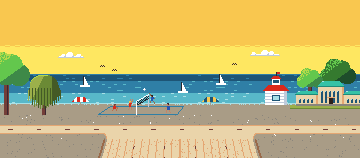
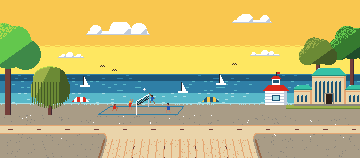
Raise The Beaches' skyline: tall maple, willow and park trees frame the lake, the R.C. Harris plant's middle hall rises over its wings, and two high clouds fill the gold sky

diff --git a/art/tools/backdrops.py b/art/tools/backdrops.py
@@ -13,13 +13,13 @@ its items spawn: only the verge's ground.
 Rows, in band rows (0 to 157): the sky is one flat colour above row 45 (CALM), under the message
 strip (band rows 6 to 57 while a message shows), but any neighbourhood's skyline may rise above
 it (Cabbagetown's old trees, chapel spire, far downtown towers and stars; High Park's oaks,
-ridge and clouds; the Distillery District's chimney stack, water tower and condo towers; and
-Yonge Street's skyline, moon and stars); the far side's ground row
-115 (BASE), the far sidewalk 119 to 122, the far curb 123 to 124, the cross street 125 to 133
-with its centre line on row 129, the near curb 134 to 135 (none where the cross street has
-none), the near sidewalk 136 to 138, and the stub from row 139 (STUB, the approach) to the
-bottom row, 157, which continues the game's road (the 320-wide strip on columns 100 to 259,
-lane dividers on 132, 164, 195 and 227, verge outside). The two sidewalks' middles run from
+ridge and clouds; the Distillery District's chimney stack, water tower and condo towers; The
+Beaches' high clouds and tall trees; and Yonge Street's skyline, moon and stars); the far side's
+ground row 115 (BASE), the far sidewalk 119 to 122, the far curb 123 to 124, the cross street
+125 to 133 with its centre line on row 129, the near curb 134 to 135 (none where the cross
+street has none), the near sidewalk 136 to 138, and the stub from row 139 (STUB, the approach)
+to the bottom row, 157, which continues the game's road (the 320-wide strip on columns 100 to
+259, lane dividers on 132, 164, 195 and 227, verge outside). The two sidewalks' middles run from
 (87, 157) to (94, 138) and from (273, 157) to (266, 138) (python3 art/tools/backdrops.py camera
 prints them for the current constants).
 
@@ -339,8 +339,8 @@ BASE = STUB - 24               # the far side's ground row: the houses stand on 
 # message strip (band rows 6 to 57 while a message shows) lie over it, so each neighbourhood's main read stays
 # below it. Any neighbourhood's skyline may rise above it, reading half covered while a message shows:
 # Cabbagetown's old trees, chapel spire, far downtown towers and stars; High Park's oaks, ridge and clouds;
-# the Distillery District's chimney stack, water tower and condo towers; and Yonge Street's skyline, moon and
-# stars.
+# the Distillery District's chimney stack, water tower and condo towers; The Beaches' high clouds and tall
+# trees; and Yonge Street's skyline, moon and stars.
 CALM = BASE - 70
 
 
@@ -1702,11 +1702,12 @@ def umbrella(cv, cx, base, a, b):
 
 def rc_harris(cv, x0, base):
     """The R.C. Harris Water Treatment Plant on its lawn at the east end of the beach, standing on row
-    base: buff brick Art Deco halls under hipped copper roofs, the middle hall raised over its wings,
-    tall arched windows, a stone plinth."""
-    cv.fill(x0 - 6, base - 1, W - x0 + 6, 4, "moss")
-    cv.fill(x0 - 6, base + 2, W - x0 + 6, 1, "olive")
-    for x, w, wall_h, roof_h in ((x0, 22, 11, 4), (x0 + 22, 26, 19, 6), (x0 + 48, 24, 11, 4)):
+    base: buff brick Art Deco halls under hipped copper roofs, the grand middle hall raised high over
+    its wings, tall arched windows under a tan string course, a stone plinth and the main doors in a
+    stone surround."""
+    cv.fill(x0 - 8, base - 1, W - x0 + 8, 4, "moss")
+    cv.fill(x0 - 8, base + 2, W - x0 + 8, 1, "olive")
+    for x, w, wall_h, roof_h in ((x0, 18, 16, 5), (x0 + 18, 34, 30, 8), (x0 + 52, 20, 16, 5)):
         top = base - wall_h
         cv.fill(x, top, w, wall_h, "cream")
         cv.fill(x + w - 2, top, 2, wall_h, "tan")
@@ -1715,11 +1716,15 @@ def rc_harris(cv, x0, base):
             cv.fill(x - 1 + k, top - 1 - k, w + 2 - 2 * k, 1, "turquoise" if k else "dturq")
         cv.fill(x - 1 + roof_h - 1, top - roof_h, 2, 1, "foam")
         for wx in range(x + 3, x + w - 4, 4):
-            cv.fill(wx, top + 3, 2, wall_h - 6, "dlake")
-            cv.fill(wx, top + 3, 2, 1, "cream")
-            cv.fill(wx, top + 4, 1, 1, "foam")
-    cv.fill(x0 + 33, base - 8, 4, 6, "walnut")
-    cv.fill(x0 + 31, base - 9, 8, 1, "tan")
+            cv.fill(wx, top + 4, 2, wall_h - 8, "dlake")
+            cv.fill(wx, top + 4, 2, 1, "cream")
+            cv.fill(wx, top + 5, 1, 1, "foam")
+        cv.fill(x, top + 1, w - 2, 1, "tan")
+    door = x0 + 33
+    cv.fill(door - 1, base - 12, 6, 10, "walnut")
+    cv.fill(door - 3, base - 13, 10, 1, "stone")
+    cv.fill(door - 3, base - 13, 1, 11, "stone")
+    cv.fill(door + 6, base - 13, 1, 11, "stone")
 
 
 def shade_tree(cv, cx, cy, r, base, leaf, shade, lit, trunk="dbrown", girth=4):
@@ -1822,8 +1827,11 @@ def volleyball(cv, x, base):
 
 def beaches():
     cv = sn.Canvas(W, H)
-    # a warm yellow late afternoon over the lake, small clouds and gulls
+    # a warm yellow late afternoon over the lake: two high summer cumulus in the gold, small clouds
+    # low over the water, and gulls
     sky(cv, "gold", "yellow", clouds=((58, BASE - 58, 26, 4), (CX + 70, BASE - 60, 30, 4)))
+    cloud(cv, 86, 34, 64, 11, 11)
+    cloud(cv, 232, 22, 40, 7, 12)
     birds(cv, ((100, BASE - 50), (112, BASE - 46), (232, BASE - 52)))
     # Lake Ontario out to the horizon: dark far water, then lake and shallows, foam lines, sails
     for py in range(BASE - 40, BASE - 12):
@@ -1843,14 +1851,15 @@ def beaches():
     for px in range(W):
         if hashed(px, BASE - 11, 5):
             cv.fill(px, BASE - 11, 1, 1, "foam")
-    # big shade trees: two in Kew-Balmy Beach park behind the plant, a maple and a willow by the
-    # boardwalk at the west end
-    shade_tree(cv, 338, BASE - 42, 12, BASE - 8, "canopy", "pine", "green")
-    shade_tree(cv, 310, BASE - 36, 9, BASE - 8, "green", "dgreen", "lime")
+    # tall shade trees that frame the lake: two in Kew-Balmy Beach park behind the plant, the nearer
+    # one in olive so it sits back, and a maple and a willow by the boardwalk at the west end, their
+    # crowns rising under the message strip
+    shade_tree(cv, 352, BASE - 70, 16, BASE - 10, "canopy", "pine", "green")
+    shade_tree(cv, 318, BASE - 62, 13, BASE - 10, "olive", "dolive", "moss")
     leuty(cv, CX + 96, BASE - 2)
-    rc_harris(cv, CX + 116, BASE - 9)
-    shade_tree(cv, 6, BASE - 44, 16, BASE, "green", "dgreen", "lime", girth=5)
-    willow(cv, 44, BASE - 30, 14, BASE)
+    rc_harris(cv, CX + 114, BASE - 9)
+    shade_tree(cv, 8, BASE - 66, 22, BASE, "green", "dgreen", "lime", girth=6)
+    willow(cv, 50, BASE - 36, 17, BASE)
     for cx, a, b in ((CX - 100, "ttc", "white"), (CX + 30, "gold", "dlake")):
         umbrella(cv, cx, BASE - 1, a, b)
     volleyball(cv, CX - 82, BASE - 1)

diff --git a/art/style-guide.md b/art/style-guide.md
@@ -327,7 +327,7 @@ People, traffic, lawn animals and sky movers that pass by with no collisions and
 
 Backdrops are 360×158 on screen rows 48 to 205 (`art/tools/backdrops.py`); band row y is screen row 48 + y. The band, its approach rows and the camera come from `shared/export/layout.json`. The street ends at a T-junction: the approach rows continue the road's projection (in play the road surface scrolls over them), and above them runs a flat cross street, beyond which the far side faces the camera. The tool's docstring lists the rows.
 
-- The debuff bars and the message strip lie over the band's top rows (the strip on rows 6 to 57, while a message shows), so the sky above row 45 is one flat colour and each neighbourhood's main read stays below the strip. Any neighbourhood's skyline may rise above row 45, under the bars' and the strip's opaque plates, where scenery that rises into the strip still reads half covered: Cabbagetown's old trees, the Necropolis chapel's spire and the far downtown towers, the CN Tower among them, with its first stars above them; High Park's oaks, far ridge and clouds; the Distillery District's chimney stack, rooftop water tower and dim glass condo towers behind the old brick, with every sign below the strip; and Yonge Street's skyline, moon and stars.
+- The debuff bars and the message strip lie over the band's top rows (the strip on rows 6 to 57, while a message shows), so the sky above row 45 is one flat colour and each neighbourhood's main read stays below the strip. Any neighbourhood's skyline may rise above row 45, under the bars' and the strip's opaque plates, where scenery that rises into the strip still reads half covered: Cabbagetown's old trees, the Necropolis chapel's spire and the far downtown towers, the CN Tower among them, with its first stars above them; High Park's oaks, far ridge and clouds; the Distillery District's chimney stack, rooftop water tower and dim glass condo towers behind the old brick, with every sign below the strip; The Beaches' two high clouds and the tall trees at its ends, the trees still reading as trees with the strip over their crowns and the R.C. Harris plant's roof below the strip; and Yonge Street's skyline, moon and stars.
 - Darkness varies: The Beaches bright and open, the Distillery District at golden hour, High Park under a clear blue sky, Cabbagetown at dusk, Yonge Street an evening downtown and Kensington Market darkest, a Pedestrian Sunday at twilight.
 - The CN Tower is huge and close on Yonge Street's skyline, the tallest structure in the city: its antenna runs off the band's top over the SkyPod and its window ring, the main pod, 43 wide with its lit window rings in 2px clusters, sits near the top, and the shaft flares from 9 columns under the pod to 29 at the street, widening faster toward its foot as the real tower's three legs do. The other towers step up toward the top third below the pod, and those either side of its shaft stay low. The message strip covers band rows 6 to 57 while a message shows, so the screens and signs sit below row 57.
 - Yonge Street's night is lit in big, clean shapes, never speckle: windows in 2×2 blocks lit in runs along each floor, the 2× LIVE! screen and its ad screens, a WOOF! screen on the glass tower at the left, 2px marquee bulbs (the EATON CENTRE sign, the ELGIN blade, the SHOW marquee), the street's glow a ramp step up the towers' feet, and each lit podium's light on the far sidewalk. It is seen from far off: building masses, lit window runs, screens and signs, with no doors, shopfronts, awnings or people; the Eaton Centre is one huge glass mall under its galleria vault, with no entrance.
@@ -338,7 +338,7 @@ Backdrops are 360×158 on screen rows 48 to 205 (`art/tools/backdrops.py`); band
 
 ## Skies
 
-- Each neighbourhood has its own sky, flat above `CALM` (70 rows over the far side's ground row) but for what rises into it: Cabbagetown's trees, spire and downtown towers; High Park's oaks, ridge and clouds; the Distillery District's chimney stack, water tower and condo towers; and Yonge Street's towers. Ink edges hold 3:1 or more on every sky but Kensington Market's violet and purple (2.8:1 and 2.0:1), where a sky mover reads by its fills.
+- Each neighbourhood has its own sky, flat above `CALM` (70 rows over the far side's ground row) but for what rises into it: Cabbagetown's trees, spire and downtown towers; High Park's oaks, ridge and clouds; the Distillery District's chimney stack, water tower and condo towers; The Beaches' high clouds and trees; and Yonge Street's towers. Ink edges hold 3:1 or more on every sky but Kensington Market's violet and purple (2.8:1 and 2.0:1), where a sky mover reads by its fills.
 
 | Sky                                   | Bands or colours                                                     | Where                                          |
 | ------------------------------------- | -------------------------------------------------------------------- | ---------------------------------------------- |
@@ -346,7 +346,7 @@ Backdrops are 360×158 on screen rows 48 to 205 (`art/tools/backdrops.py`); band
 | Distillery District (golden hour)     | peach, orange, amber bands; a sun low over Trinity Square, gulls     | `backdrop-distillery-district`                 |
 | High Park (deep clear blue)           | azure over sky, white clouds                                         | `backdrop-high-park`                           |
 | Kensington Market (twilight sunburst) | flat purple rays over violet from the end of the street (`sunburst`) | `backdrop-kensington-market`                   |
-| The Beaches (late afternoon)          | gold over yellow, small clouds and gulls                             | `backdrop-the-beaches`                         |
+| The Beaches (late afternoon)          | gold over yellow, two high clouds, small low clouds and gulls        | `backdrop-the-beaches`                         |
 | Toronto at night                      | navy, purple, mauve bands; a crescent moon, stars in the navy band   | `screen-loading`                               |
 | Toronto autumn day                    | foam over haze                                                       | `screen-home`                                  |
 | Yonge Street (evening)                | slate, dslate, purple, mauve bands; a full moon and stars            | `backdrop-yonge-street`                        |
